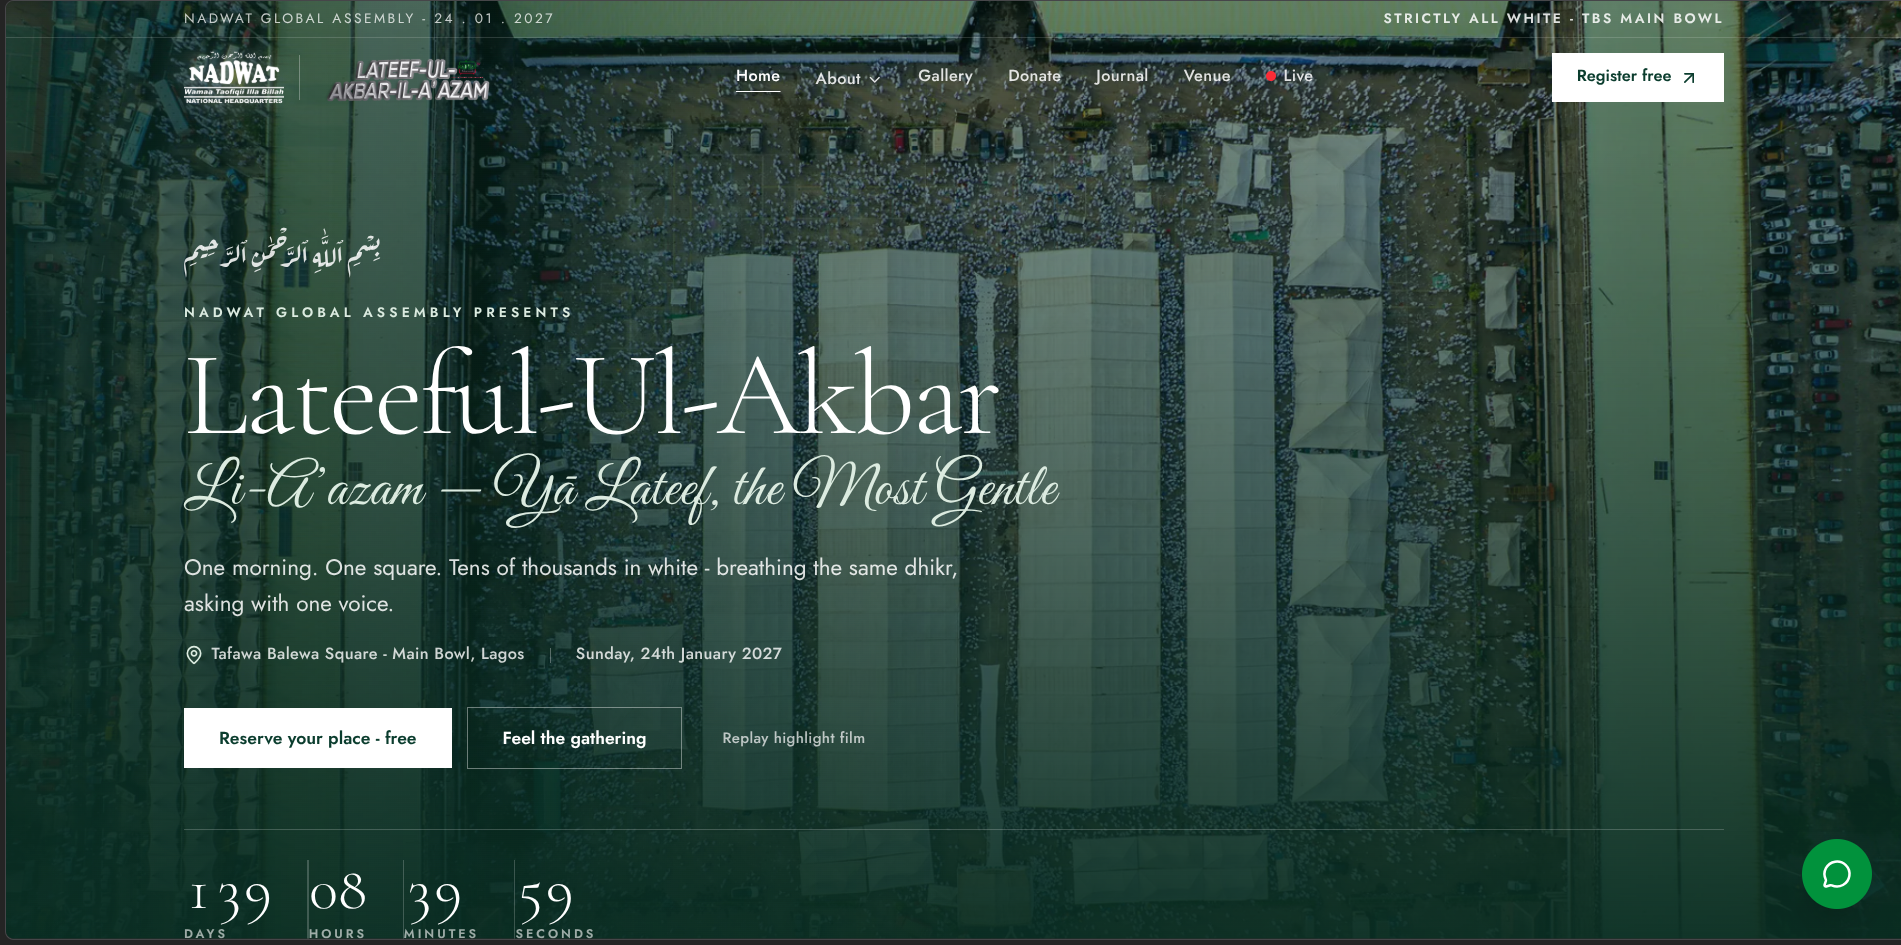
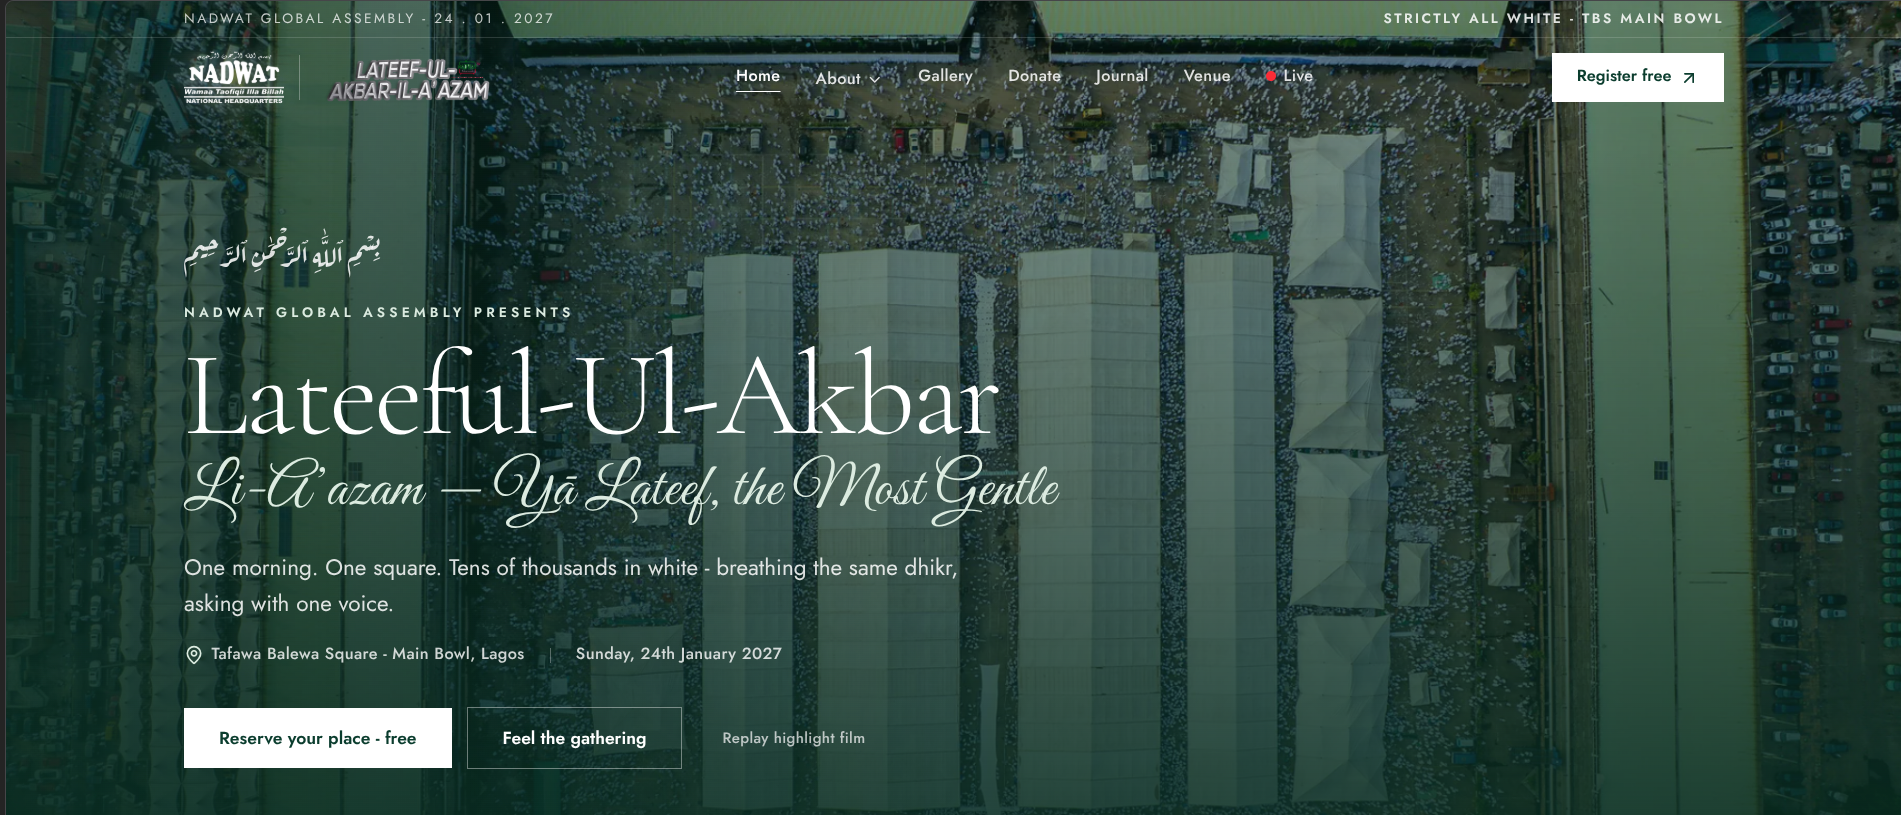
Replace 4 Canopies stat with 100% Free stat and standardize Yaa Lateef spelling across the site

diff --git a/src/components/Story.tsx b/src/components/Story.tsx
@@ -9,7 +9,7 @@ import { Eyebrow, Reveal } from "./ui";
 
 function Ticker() {
   const words = [
-    "Yā Lateef", "-", "GRACE", "-", "LENIENCY", "-", "KINDNESS", "-", "DHIKR", "-", "DU‘Ā", "-", "THE GRANDEUR GATHERING OF SUBLIME MINDS", "-", "SEEKING WITH ONE VOICE", "-", "TBS LAGOS", "-", EVENT.dateShort, "-"
+    "Yaa Lateef", "-", "GRACE", "-", "LENIENCY", "-", "KINDNESS", "-", "DHIKR", "-", "DU‘Ā", "-", "THE GRANDEUR GATHERING OF SUBLIME MINDS", "-", "SEEKING WITH ONE VOICE", "-", "TBS LAGOS", "-", EVENT.dateShort, "-"
   ];
   const row = [...words, ...words, ...words];
   return (
@@ -39,8 +39,8 @@ function Ticker() {
 const STATS = [
   { n: "90k+", l: "Physical worshippers in white at TBS" },
   { n: "100k+", l: "Online participants joining live" },
-  { n: "4", l: "Canopies across Tafawa Balewa Square" },
-  { n: "Billions", l: "Yā Lateef tasbīh recitations" },
+  { n: "100% Free", l: "Open to every worshipper without cost" },
+  { n: "Billions", l: "Yaa Lateef tasbīh recitations" },
 ];
 
 const NEEDS = [
@@ -62,7 +62,7 @@ const EXPECT = [
   {
     icon: Volume2,
     t: "Collective Dhikr & Salawāt",
-    d: "The Yā Lateef recitation rises as one sound — led from the stage, answered by the whole Square.",
+    d: "The Yaa Lateef recitation rises as one sound — led from the stage, answered by the whole Square.",
     img: "/assets/crowd-48.jpg",
   },
   {
@@ -88,7 +88,7 @@ const EXPECT = [
 const ORDER = [
   { time: "08:00", title: "Gates & Settling", note: "Accreditation, seating by canopy, quiet recitation." },
   { time: "09:30", title: "Opening & Bismillah", note: "Welcome from Nadwat, intentions set together." },
-  { time: "10:30", title: "Yā Lateef — First Sitting", note: "The long collective dhikr. Water moves through rows." },
+  { time: "10:30", title: "Yaa Lateef — First Sitting", note: "The long collective dhikr. Water moves through rows." },
   { time: "12:30", title: "Reflection & Scholars", note: "Reminders from the founder and guest scholars." },
   { time: "14:00", title: "The Grand Du‘ā", note: "Tens of thousands asking as one. The day’s peak." },
   { time: "15:00", title: "Closing & Dispersal", note: "Orderly exit by section, lost-and-found at the gates." },
@@ -123,7 +123,7 @@ export default function Story() {
               <Reveal delay={0.16}>
                 <p className="mt-6 max-w-xl text-base leading-relaxed text-faded sm:text-lg">
                   What a Gathering is Lateef ul Akbar! Tens of thousands gathered under one banner:{" "}
-                  <strong className="font-semibold text-ink">Yā Lateef — Intercede for us with Your Grace and Kindness.</strong>
+                  <strong className="font-semibold text-ink">Yaa Lateef — Intercede for us with Your Grace and Kindness.</strong>
                 </p>
               </Reveal>
               <Reveal delay={0.22}>

diff --git a/src/app/live/page.tsx b/src/app/live/page.tsx
@@ -5,15 +5,15 @@ import { CountdownStrip, Eyebrow, Reveal } from "@/components/ui";
 import { EVENT } from "@/lib/site";
 
 export const metadata = {
-  title: "Live — Majlis Yā Lateef (Al-Majlis Al-Mubāshir)",
+  title: "Live — Majlis Yaa Lateef (Al-Majlis Al-Mubāshir)",
   description:
-    "The live dashboard for Lateeful-Ul-Akbar 2027: YouTube livestream from TBS, the worldwide Yā Lateef tasbīh, order of the day and live updates.",
+    "The live dashboard for Lateeful-Ul-Akbar 2027: YouTube livestream from TBS, the worldwide Yaa Lateef tasbīh, order of the day and live updates.",
 };
 
 const ORDER = [
   { time: "08:00", title: "Gates & settling", note: "Accreditation, seating by canopy." },
   { time: "09:30", title: "Opening & Bismillah", note: "Welcome from Nadwat, intentions set." },
-  { time: "10:30", title: "Yā Lateef — first sitting", note: "The long collective dhikr." },
+  { time: "10:30", title: "Yaa Lateef — first sitting", note: "The long collective dhikr." },
   { time: "12:30", title: "Reflection & scholars", note: "Reminders from the founder and guests." },
   { time: "14:00", title: "The grand du‘ā", note: "Tens of thousands asking as one." },
   { time: "15:00", title: "Closing & dispersal", note: "Orderly exit by section." },
@@ -33,7 +33,7 @@ const UPDATES = [
   {
     time: "After",
     title: "Final tasbīh & closing du‘ā replay",
-    text: "The worldwide Yā Lateef total is announced at closing and kept on this page.",
+    text: "The worldwide Yaa Lateef total is announced at closing and kept on this page.",
   },
 ];
 
@@ -42,9 +42,9 @@ export default function LivePage() {
     <>
       <PageHeader
         eyebrow="Live — Al-Majlis Al-Mubāshir"
-        title={<>Majlis Yā Lateef, live from the Square</>}
+        title={<>Majlis Yaa Lateef, live from the Square</>}
         arabic="المَجْلِسُ المُبَاشِر — يَا لَطِيف"
-        intro="The live dashboard — Majlis Yā Lateef as it happens. Watch the Nadwat TV broadcast from the Main Bowl, add your own recitations to the worldwide tasbīh, and follow the order of the day."
+        intro="The live dashboard — Majlis Yaa Lateef as it happens. Watch the Nadwat TV broadcast from the Main Bowl, add your own recitations to the worldwide tasbīh, and follow the order of the day."
         image="/assets/crowd-11.jpg"
       />
 

diff --git a/src/app/about/page.tsx b/src/app/about/page.tsx
@@ -22,7 +22,7 @@ const PILLARS = [
   {
     icon: Moon,
     t: "Dhikr",
-    d: "The long collective recitation of Yā Lateef — led from the stage, answered by the whole Square as one sound.",
+    d: "The long collective recitation of Yaa Lateef — led from the stage, answered by the whole Square as one sound.",
   },
   {
     icon: HeartHandshake,
@@ -48,7 +48,7 @@ export default function AboutPage() {
         eyebrow="About"
         title={<>About the event</>}
         arabic="لَطِيفُ الْخَبِير"
-        intro="Lateeful-Ul-Akbar Li-A’azam is Nadwat Global Assembly's grand sitting of dhikr and du‘ā — one morning, one square, tens of thousands in white, gathered under the Name Yā Lateef, the Most Gentle."
+        intro="Lateeful-Ul-Akbar Li-A’azam is Nadwat Global Assembly's grand sitting of dhikr and du‘ā — one morning, one square, tens of thousands in white, gathered under the Name Yaa Lateef, The Most Kind."
         image="/assets/crowd-49.jpg"
       />
 
@@ -85,7 +85,7 @@ export default function AboutPage() {
               </div>
             </Reveal>
             <Reveal delay={0.18}>
-              <p className="font-script mt-6 text-3xl text-fern">Yā Lateef, the Most Gentle</p>
+              <p className="font-script mt-6 text-3xl text-fern">Yaa Lateef, The Most Kind</p>
             </Reveal>
           </div>
           <Reveal delay={0.1}>

diff --git a/src/components/EventDashboard.tsx b/src/components/EventDashboard.tsx
@@ -48,12 +48,12 @@ export default function EventDashboard() {
         <div className="mt-5 flex flex-wrap items-end justify-between gap-6">
           <Reveal delay={0.06}>
             <h2 className="font-display text-balance max-w-2xl text-4xl leading-tight font-light tracking-tight text-ink sm:text-5xl">
-              Watch and chant Yā Lateef wherever you are
+              Watch and chant Yaa Lateef wherever you are
             </h2>
           </Reveal>
           <Reveal delay={0.12}>
             <p className="max-w-sm text-sm leading-relaxed text-faded">
-              Watch the broadcast on the day, and add your own Yā Lateef recitations to the
+              Watch the broadcast on the day, and add your own Yaa Lateef recitations to the
               worldwide tasbīh.
             </p>
           </Reveal>
@@ -103,7 +103,7 @@ export default function EventDashboard() {
                   التَّسْبِيح
                 </p>
                 <p className="relative mt-1 text-[11px] font-semibold uppercase tracking-[0.24em] text-white/80">
-                  Worldwide Yā Lateef Tasbīh
+                  Worldwide Yaa Lateef Tasbīh
                 </p>
                 <p className="font-display relative mt-1 text-5xl font-light tabular-nums sm:text-6xl">
                   {global.toLocaleString()}

diff --git a/src/components/AiAssistant.tsx b/src/components/AiAssistant.tsx
@@ -32,7 +32,7 @@ function answer(q: string): string {
   if (s.includes("founder") || s.includes("missioner") || s.includes("lawal") || s.includes("sheikh") || s.includes("shaikh"))
     return "The Chief Missioner is Shaikh Dr. Abdur Rahman Ade Lawal: Al-Azhar trained, PhD in Mass Communication, IVLP alumnus, author and counsellor.";
   if (s.includes("stream") || s.includes("live") || s.includes("watch") || s.includes("online") || s.includes("count") || s.includes("tasbih") || s.includes("tasbīh") || s.includes("dhikr count"))
-    return "The live broadcast and worldwide Ya Lateef tasbīh live on the Live page (/live). Venue and route help is on /venue.";
+    return "The live broadcast and worldwide Yaa Lateef tasbīh live on the Live page (/live). Venue and route help is on /venue.";
   if (s.includes("salam") || s.includes("hello") || s.includes("hi"))
     return "Wa alaykum as-salam. Ask me about the date, venue, dress code, parking, registration or sadaqah.";
   return "Lateeful-Ul-Akbar Li-A'azam is Nadwat's grand dhikr gathering on 24 January 2027 at TBS Lagos. Ask me about the date, dress code, parking, registration or giving.";

diff --git a/src/lib/site.ts b/src/lib/site.ts
@@ -74,9 +74,9 @@ export const BLOG_POSTS = [
   {
     slug: "ya-lateef",
     category: "Meaning",
-    title: "Yā Lateef: the Name we gather under",
+    title: "Yaa Lateef: the Name we gather under",
     excerpt:
-      "Subtlety, gentleness, the kindness that arrives before you ask. A short reading for first-time guests.",
+      "Subtlety, kindness, the grace that arrives before you ask. A short reading for first-time guests.",
     image: "/assets/crowd-18.jpg",
     date: "Dec 2026",
     read: "4 min",
@@ -104,11 +104,11 @@ export const PRAYER_PAGES = [
   },
   {
     page: 2,
-    title: "Yā Lateef - the gathering dhikr",
+    title: "Yaa Lateef - the gathering dhikr",
     arabic: "يَا لَطِيفُ يَا لَطِيفُ يَا لَطِيفُ",
-    transliteration: "Yā Lateef, Yā Lateef, Yā Lateef",
+    transliteration: "Yaa Lateef, Yaa Lateef, Yaa Lateef",
     translation:
-      "O Most Gentle, O Most Subtle - be gentle with us in all that destiny brings, seen and unseen.",
+      "O Most Kind, O Most Subtle - be gentle with us in all that destiny brings, seen and unseen.",
   },
   {
     page: 3,

diff --git a/src/app/journal/[slug]/page.tsx b/src/app/journal/[slug]/page.tsx
@@ -19,7 +19,7 @@ const BODIES: Record<string, string[]> = {
   "tbs-logistics": [
     "Brothers sit in the ordered canopy on one side, sisters under the great canopy on the other — stewarded by section, first come first served. Elders and guests with medical needs are seated nearest the service lanes; tell a steward at the gate and you will be walked there.",
     "Water moves through the rows all morning, funded by sadaqah. Fans hold the midday heat under the canopies. There are no vehicles inside the Bowl — all cars and buses use the perimeter lots outside the Square.",
-    "Gates open at 08:00 with accreditation and QR scanning. The opening and Bismillah follow at 09:30, the long Yā Lateef sitting at 10:30, reflections at midday, and the grand du‘ā — the day's peak — at 14:00. Dispersal is orderly, section by section.",
+    "Gates open at 08:00 with accreditation and QR scanning. The opening and Bismillah follow at 09:30, the long Yaa Lateef sitting at 10:30, reflections at midday, and the grand du‘ā — the day's peak — at 14:00. Dispersal is orderly, section by section.",
   ],
 };
 

diff --git a/src/app/layout.tsx b/src/app/layout.tsx
@@ -38,7 +38,7 @@ const arabic = Amiri({
 export const metadata: Metadata = {
   title: "Lateeful-Ul-Akbar Li-A’azam 2027 - Nadwat Global Assembly",
   description:
-    "A grand gathering of dhikr and du'a at Tafawa Balewa Square, Lagos. 24 January 2027. Register, give sadaqah, read the prayer book and join the global Yā Lateef tasbīh.",
+    "A grand gathering of dhikr and du'a at Tafawa Balewa Square, Lagos. 24 January 2027. Register, give sadaqah, read the prayer book and join the global Yaa Lateef tasbīh.",
   icons: {
     icon: "/icon.png",
     shortcut: "/favicon.ico",

diff --git a/src/components/FounderSpotlight.tsx b/src/components/FounderSpotlight.tsx
@@ -62,7 +62,7 @@ export default function FounderSpotlight() {
                 <p>
                   Shaikh Dr. Lawal convenes Lateeful-Ul-Akbar as an act of return - away from
                   noise, toward the quiet power of collective dhikr. His call is simple: dress
-                  alike, sit together, and let the Name <em className="text-ink">Yā Lateef</em> do
+                  alike, sit together, and let the Name <em className="text-ink">Yaa Lateef</em> do
                   its work on hardened hearts.
                 </p>
                 <p>

diff --git a/src/app/page.tsx b/src/app/page.tsx
@@ -37,7 +37,7 @@ export default function Home() {
               </h2>
               <p className="mt-4 max-w-lg text-[15px] leading-relaxed text-faded">
                 Lateeful-Ul-Akbar Li-A’azam is Nadwat&apos;s grand sitting of dhikr — tens of
-                thousands in white under the Name Yā Lateef. No headline acts; the crowd&apos;s
+                thousands in white under the Name Yaa Lateef. No headline acts; the crowd&apos;s
                 recitation is the event.
               </p>
               <div className="mt-6">

diff --git a/src/components/Footer.tsx b/src/components/Footer.tsx
@@ -145,7 +145,7 @@ export default function Footer() {
           </div>
 
           <p aria-hidden className="font-display text-outline relative -mb-4 hidden w-full overflow-hidden text-center text-[13vw] leading-none font-semibold tracking-tight whitespace-nowrap select-none md:block">
-            YA LATEEF
+            YAA LATEEF
           </p>
 
           <div className="relative flex flex-col items-center justify-between gap-3 border-t border-white/15 py-6 text-[12px] text-white/60 sm:flex-row">

diff --git a/src/components/RegistrationPortal.tsx b/src/components/RegistrationPortal.tsx
@@ -76,7 +76,7 @@ export default function RegistrationPortal() {
       ctx.fillText("Dress code: all white", 450, 850);
       ctx.fillStyle = "#0B3D2E";
       ctx.font = "400 30px Georgia, serif";
-      ctx.fillText("Ya Lateef, the Most Gentle", 450, 1050);
+      ctx.fillText("Yaa Lateef, The Most Kind", 450, 1050);
     };
     if (img) {
       const el = new window.Image();
